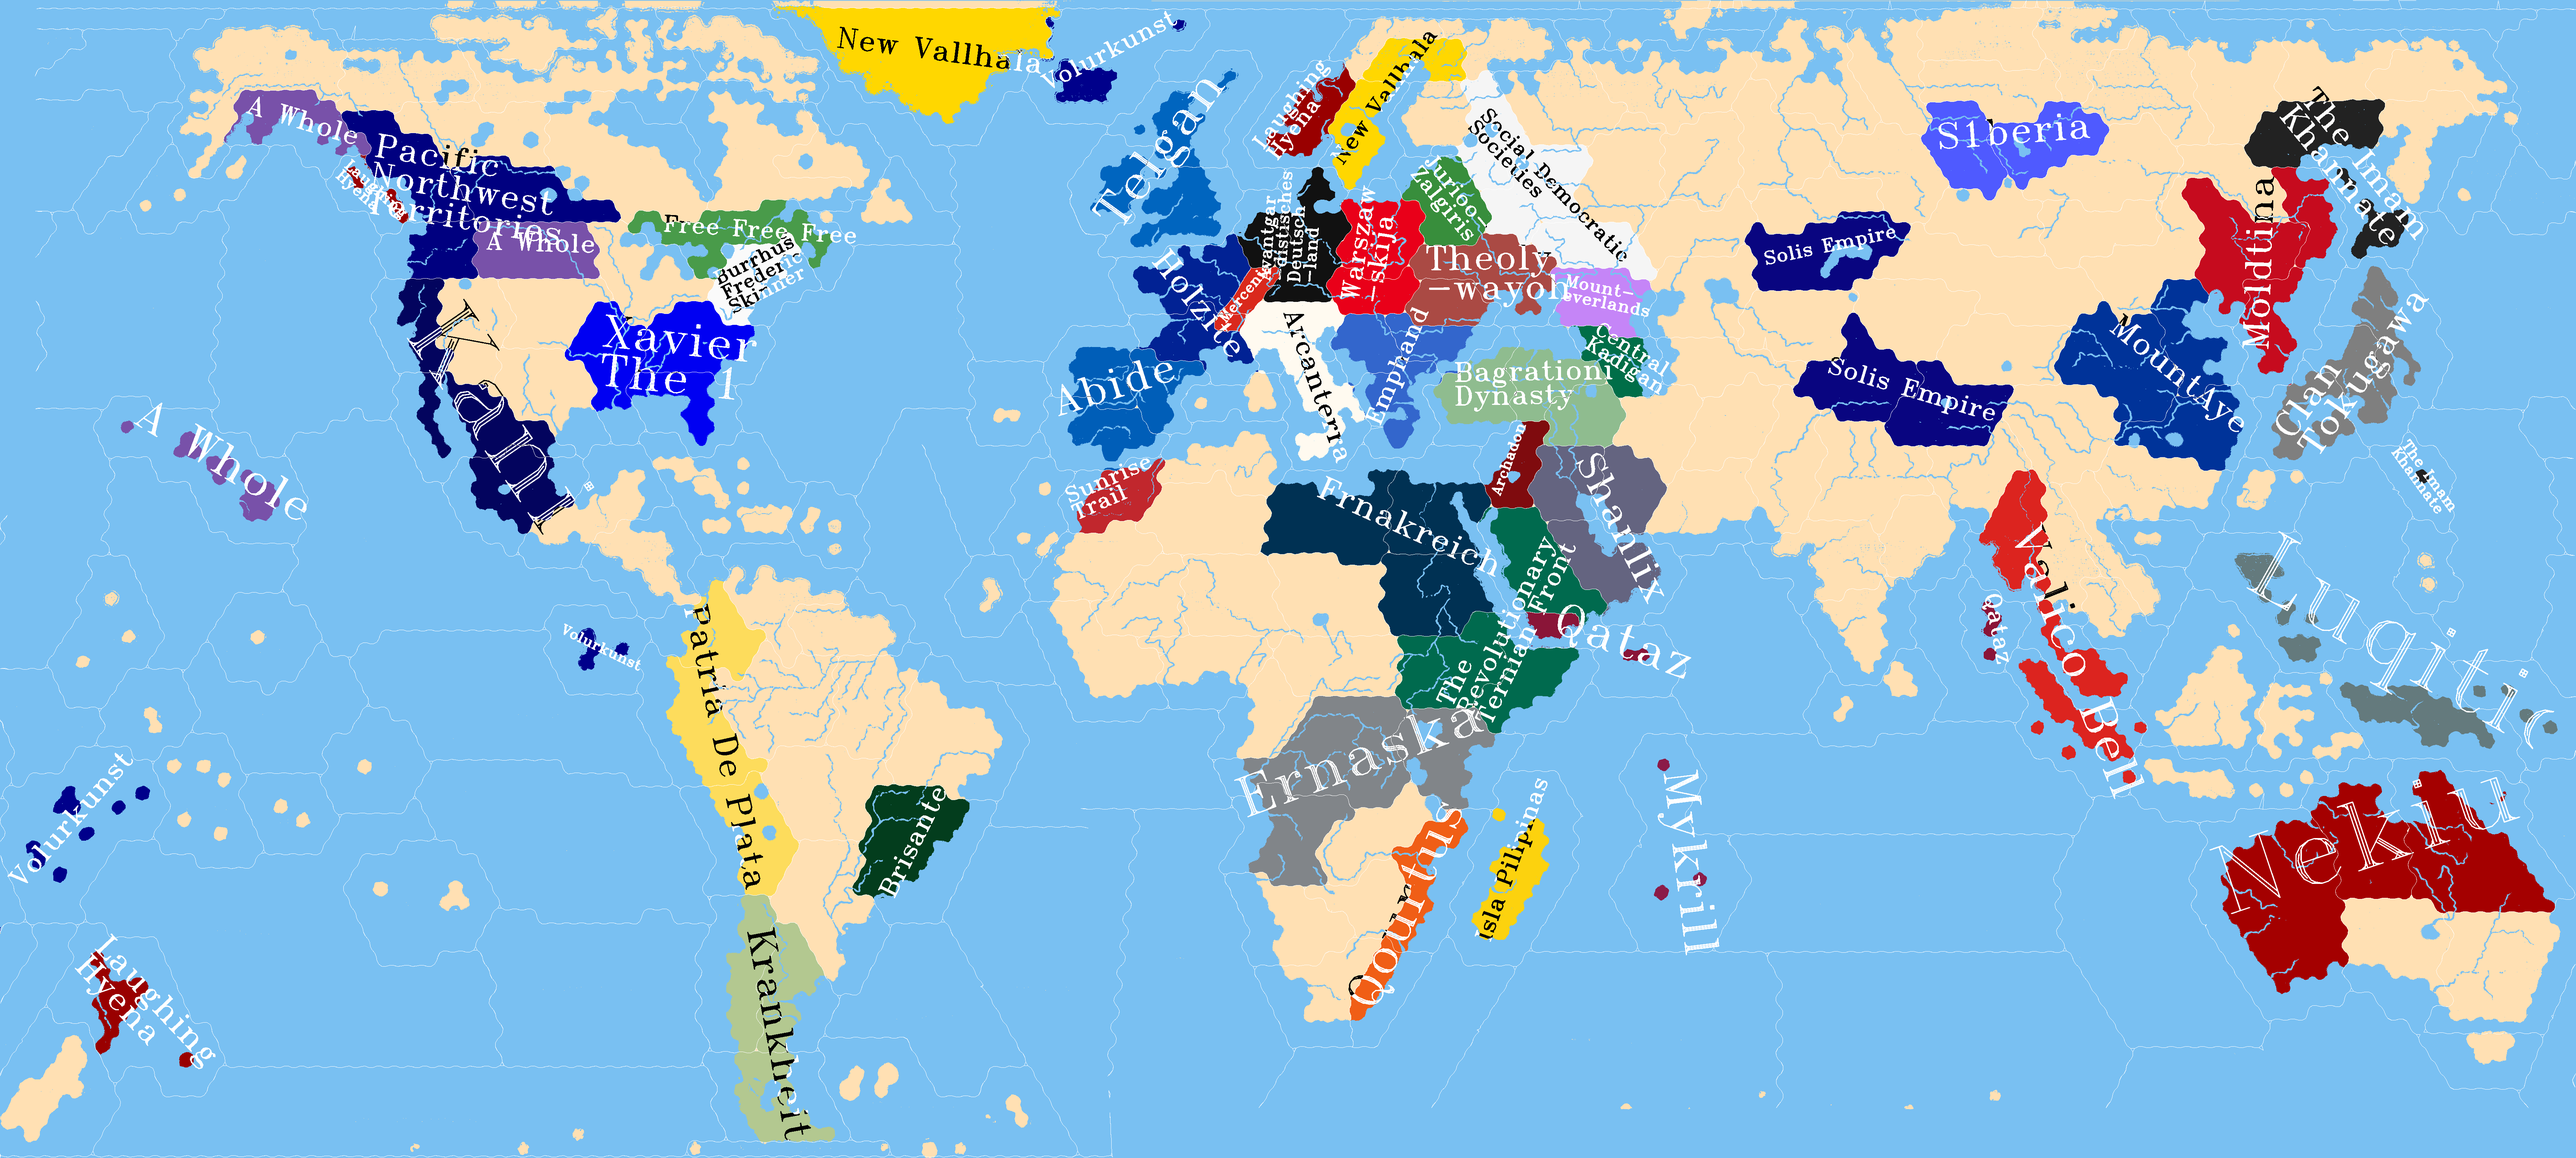
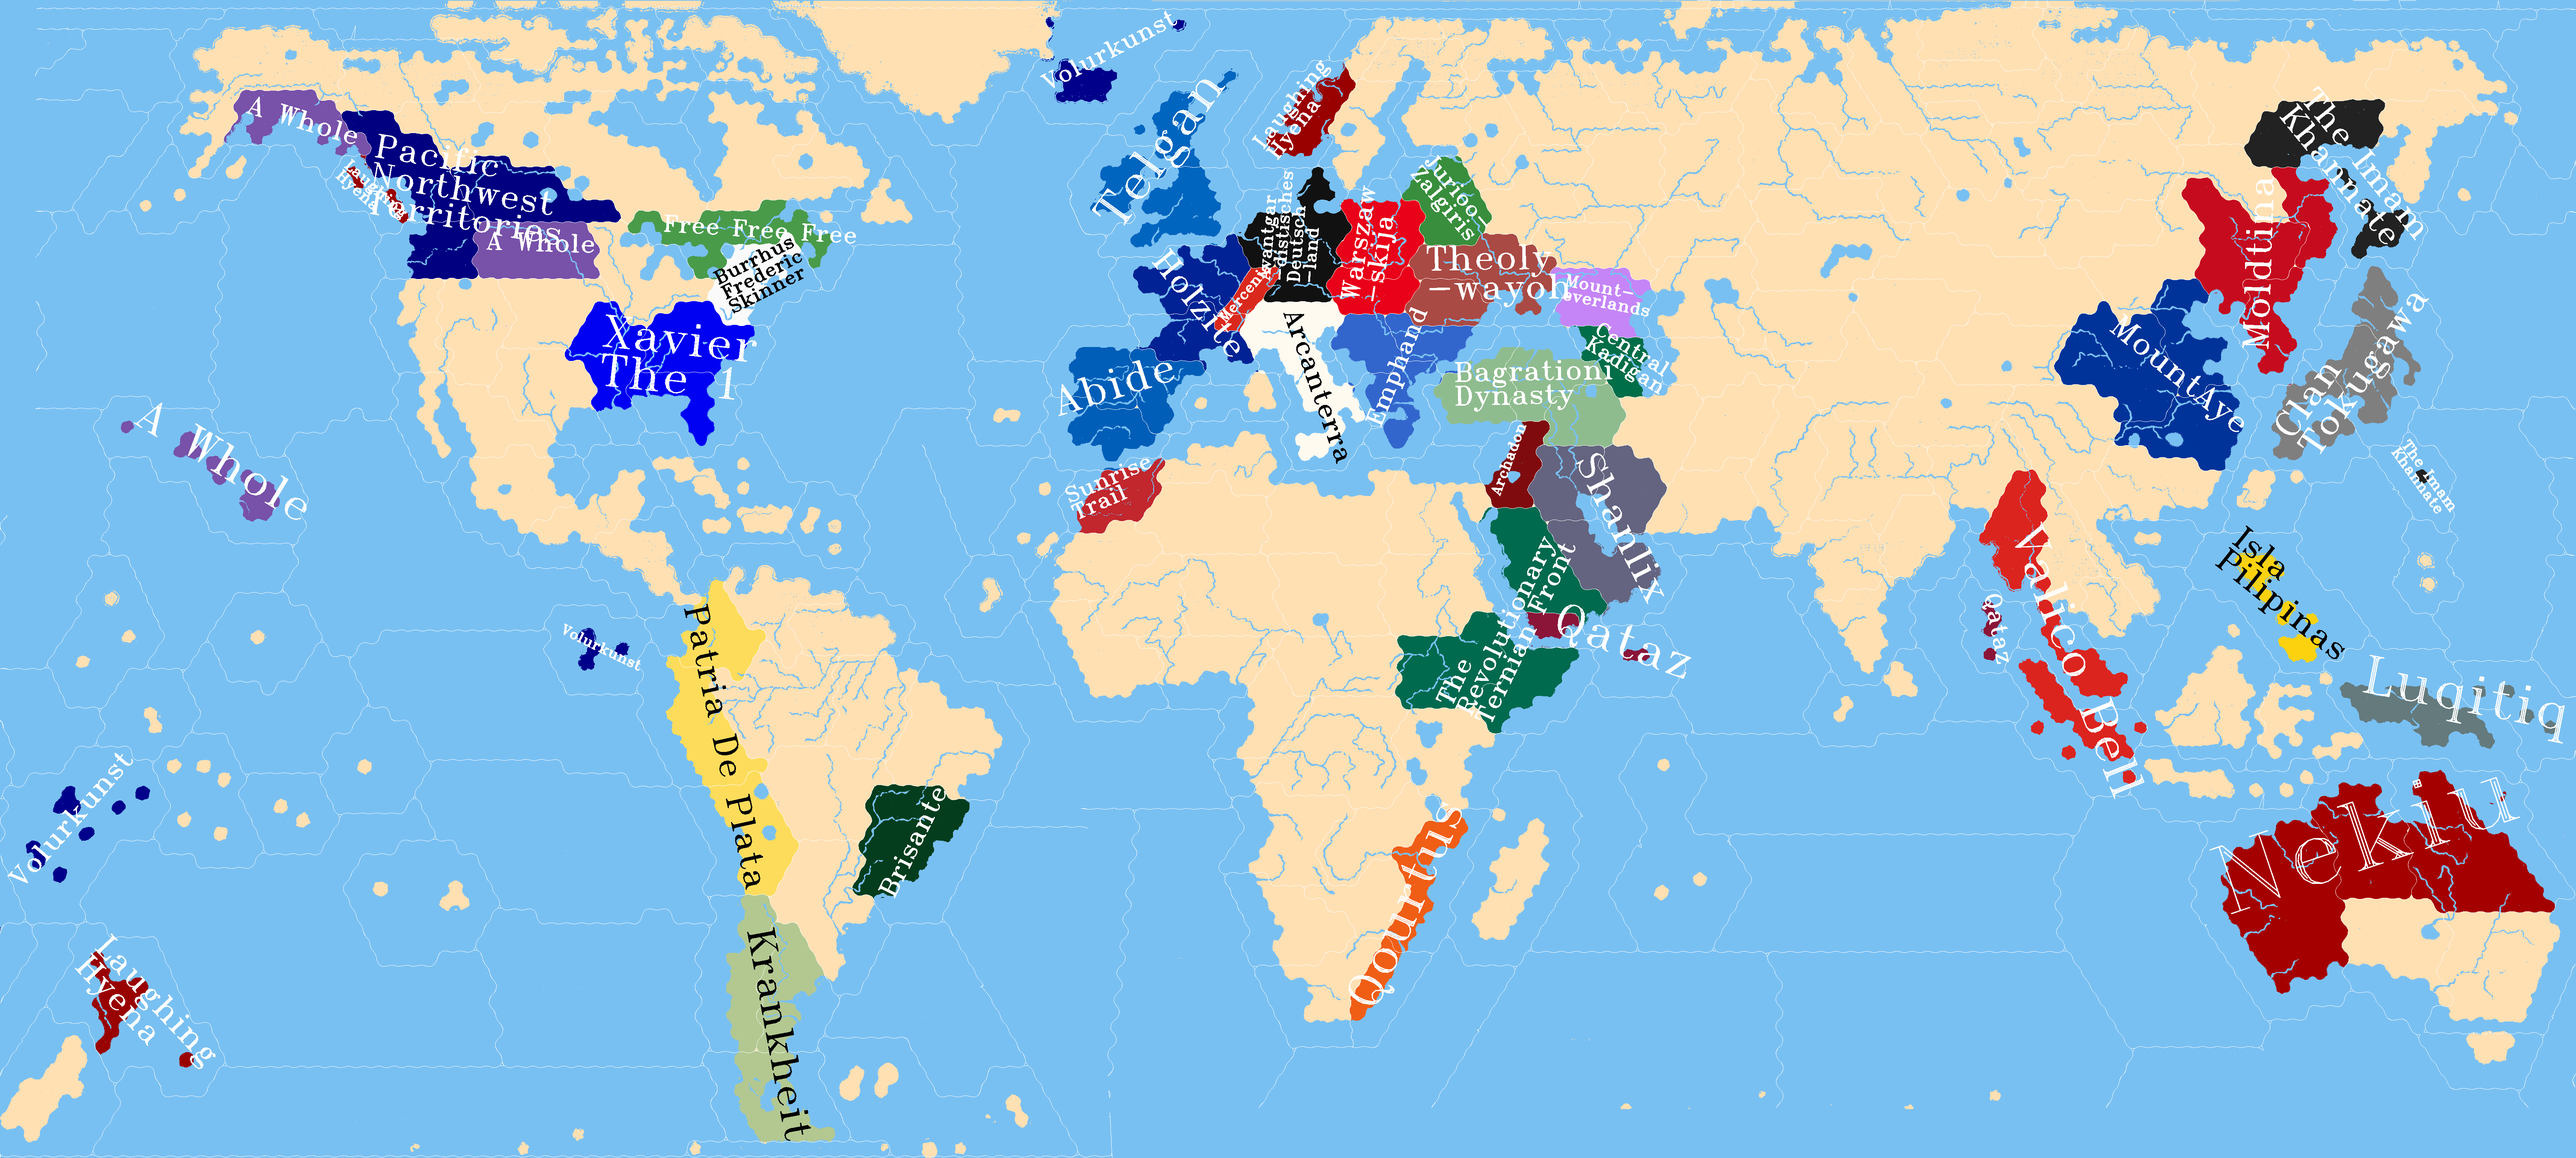
move Isla Pilipinas; remove New Vallhalla; remove Kani; remove S1beria; remove Solis Empire; remove Ernaska; remove Social Democratic Society; remove Frnakreich; remove Mykrill

diff --git a/scripts/paint_map.py b/scripts/paint_map.py
@@ -34,14 +34,13 @@ for _,territroy in registered.dropna(subset="COLOR").iterrows():
     latest[territroy_land] = territroy_color
     mask_nations[morphology.binary_dilation(territory_all,footprint=np.ones((3,3),dtype=int))] = territroy_color
 print("PAINTED COLORS")
-mask_bright = np.dot(latest,np.array([0.299,0.587,0.114]))/255>0.70
-mask_dark = np.logical_not(mask_bright)
 
 named = latest.copy()
 named[(borders>0)] = np.array([255,255,255])
 for n,name in enumerate(registered["STATE"].unique()):
     entries = registered.loc[registered["STATE"].eq(name)]
     nation_color = hex2color(entries.loc[entries.index[0],"COLOR"])
+    name_color = np.array([0,0,0]) if np.dot(nation_color,np.array([0.299,0.587,0.114]))/255>0.70 else np.array([255,255,255])
     nation_territories = np.all(mask_nations==nation_color,axis=-1)
     # Because we don't know if their territories are connected:
     nation_territories_label = measure.label(nation_territories)
@@ -84,8 +83,7 @@ for n,name in enumerate(registered["STATE"].unique()):
                               )
             M = cv2.getRotationMatrix2D((xw,yw), angle, 1)
             text = cv2.warpAffine(text, M, (text.shape[1], text.shape[0]))
-            named[np.logical_and(text>255/2,mask_bright)] = np.array([0,0,0])
-            named[np.logical_and(text>255/2,mask_dark)] = np.array([255,255,255])
+            named[(text>255/2)] = name_color
     print(f"TAGGING NAMES #{n+1}: {name}")
 
 io.imsave("latest.png",util.img_as_ubyte(named))
